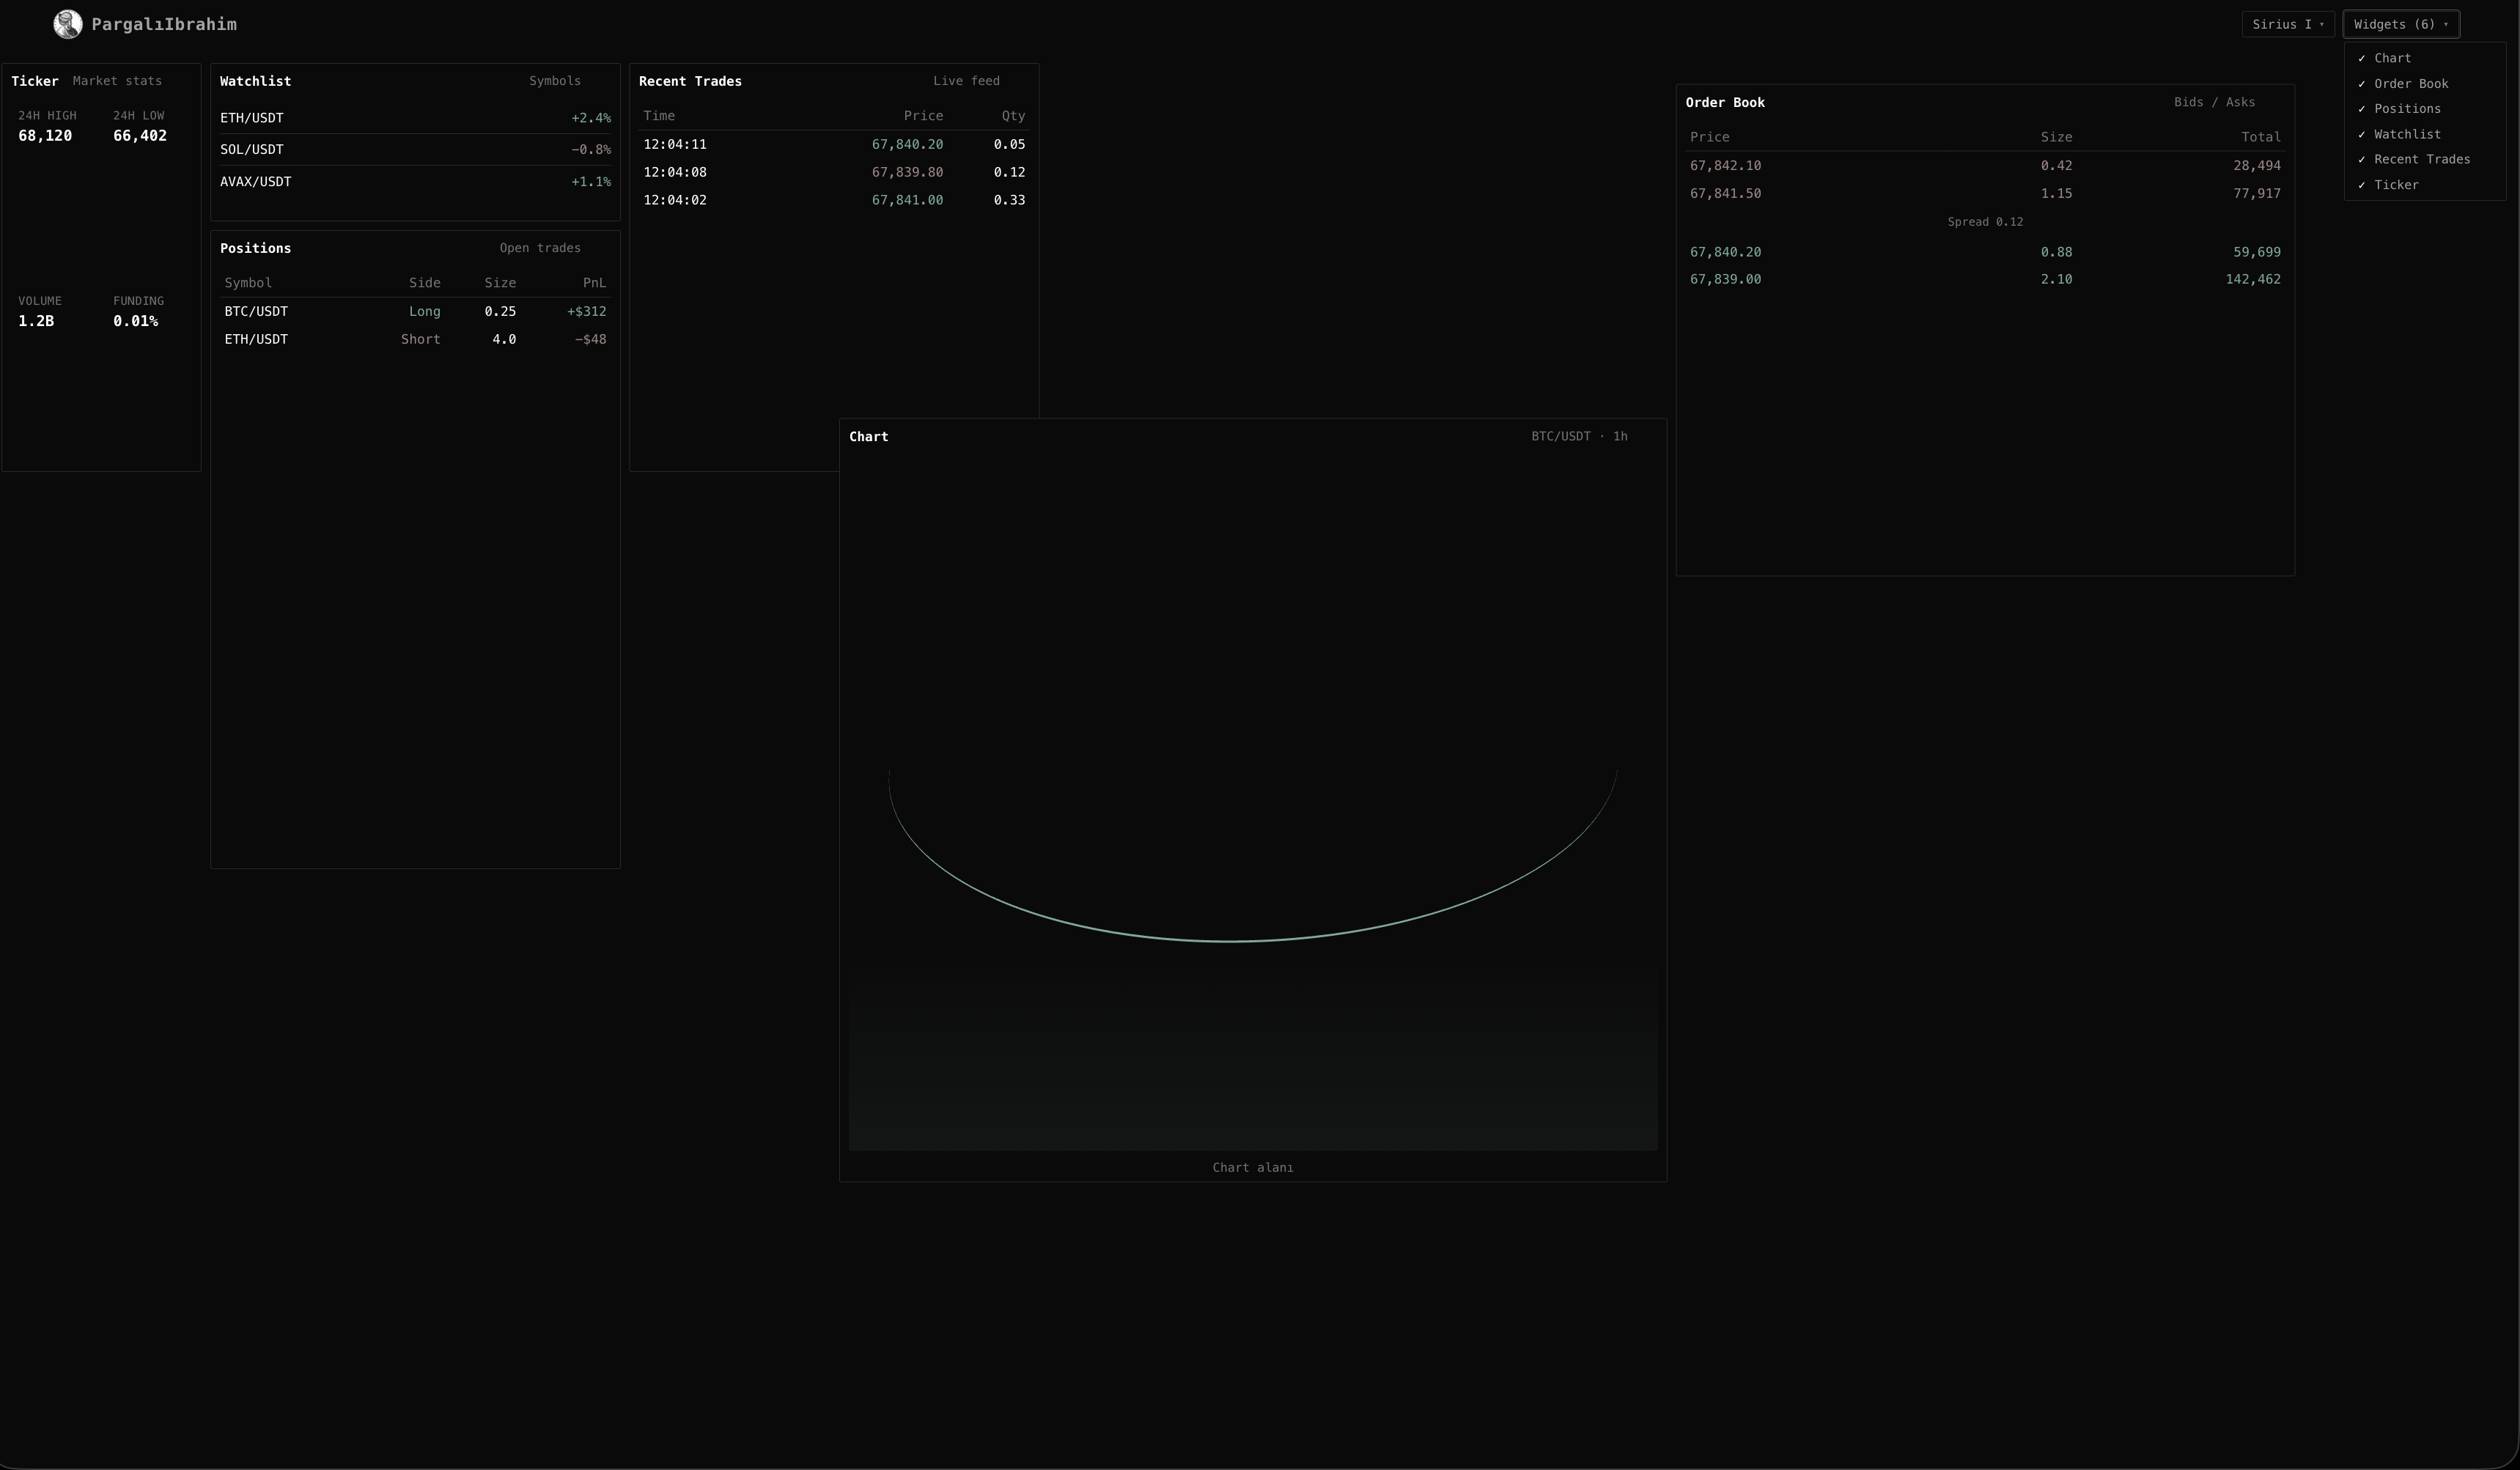
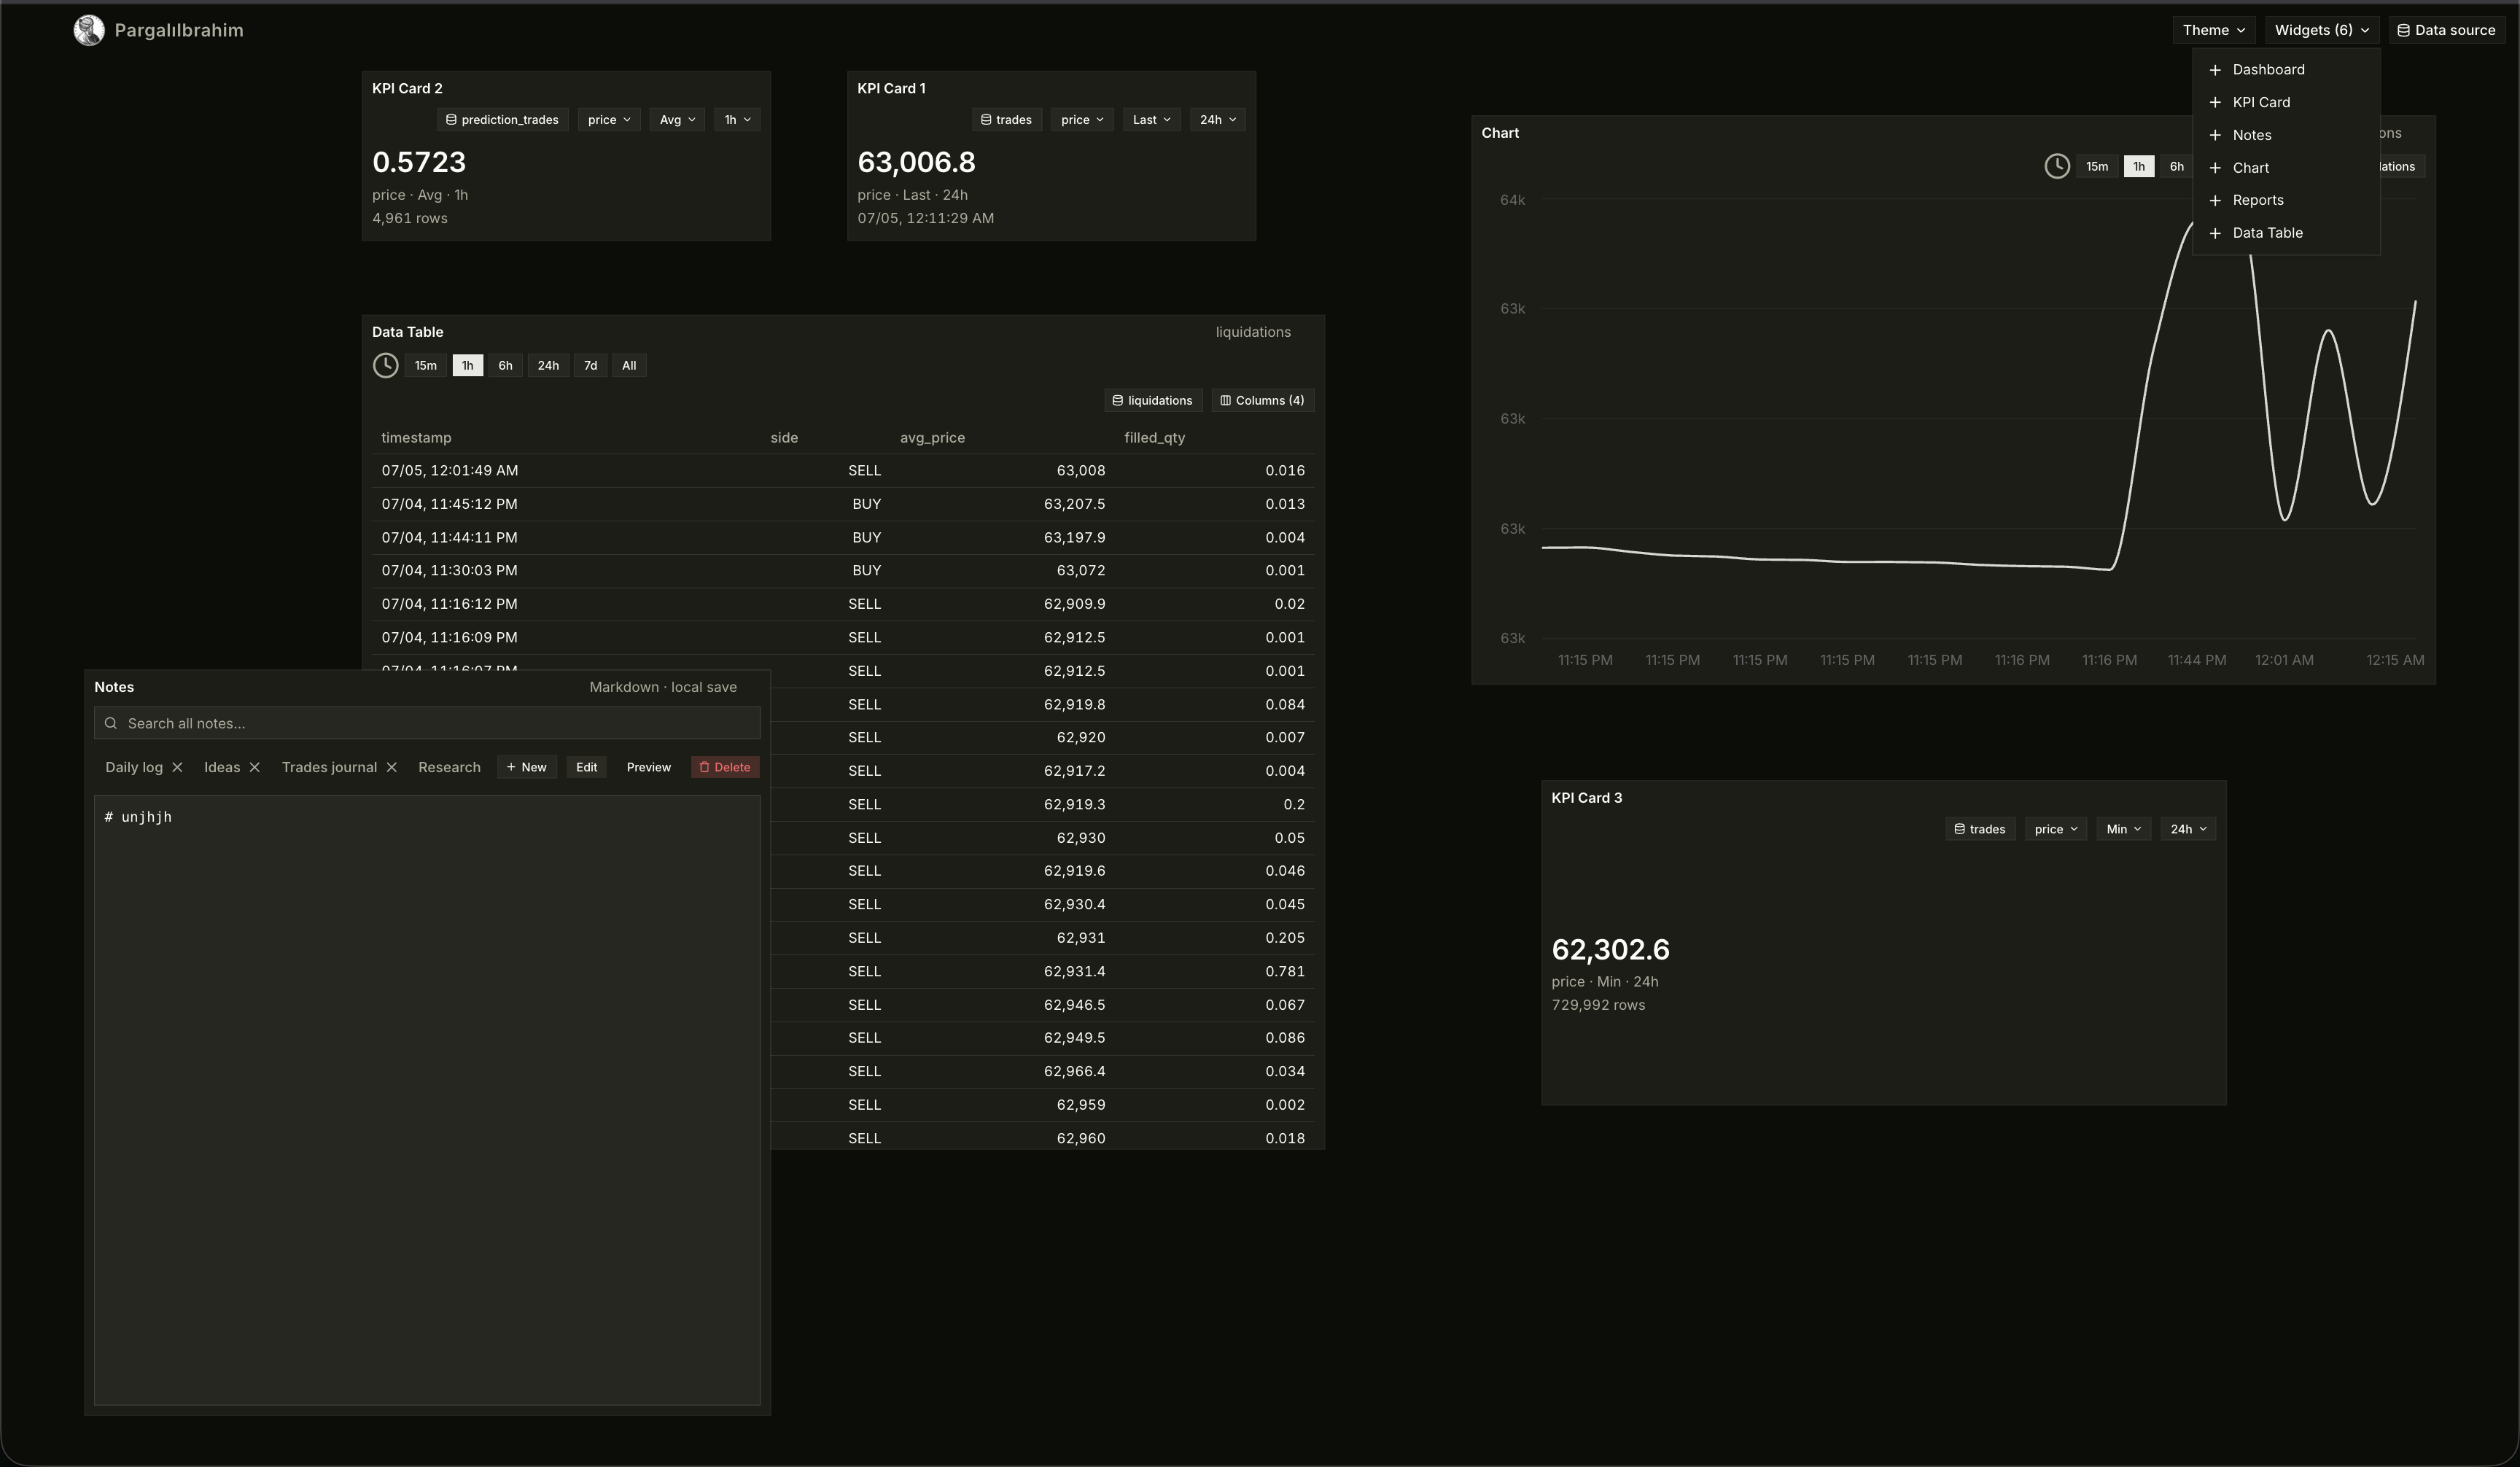
Update terminal screenshots with live Parquet workspace.
Replace docs/terminal-example.png and add terminal-live.png from full-resolution desktop captures (3456×2012 PNG, no recompression).

diff --git a/docs/README.md b/docs/README.md
@@ -2,6 +2,16 @@
 
 Guides for customizing and extending PargalıIbrahim Canvas.
 
+## Screenshots
+
+Live Parquet data — KPI cards, chart, data table, notes (Mauve theme):
+
+![Terminal workspace](./terminal-example.png)
+
+Running locally at `localhost:5173` with the widget picker:
+
+![Terminal live](./terminal-live.png)
+
 ## Start here
 
 | Guide | What it covers |